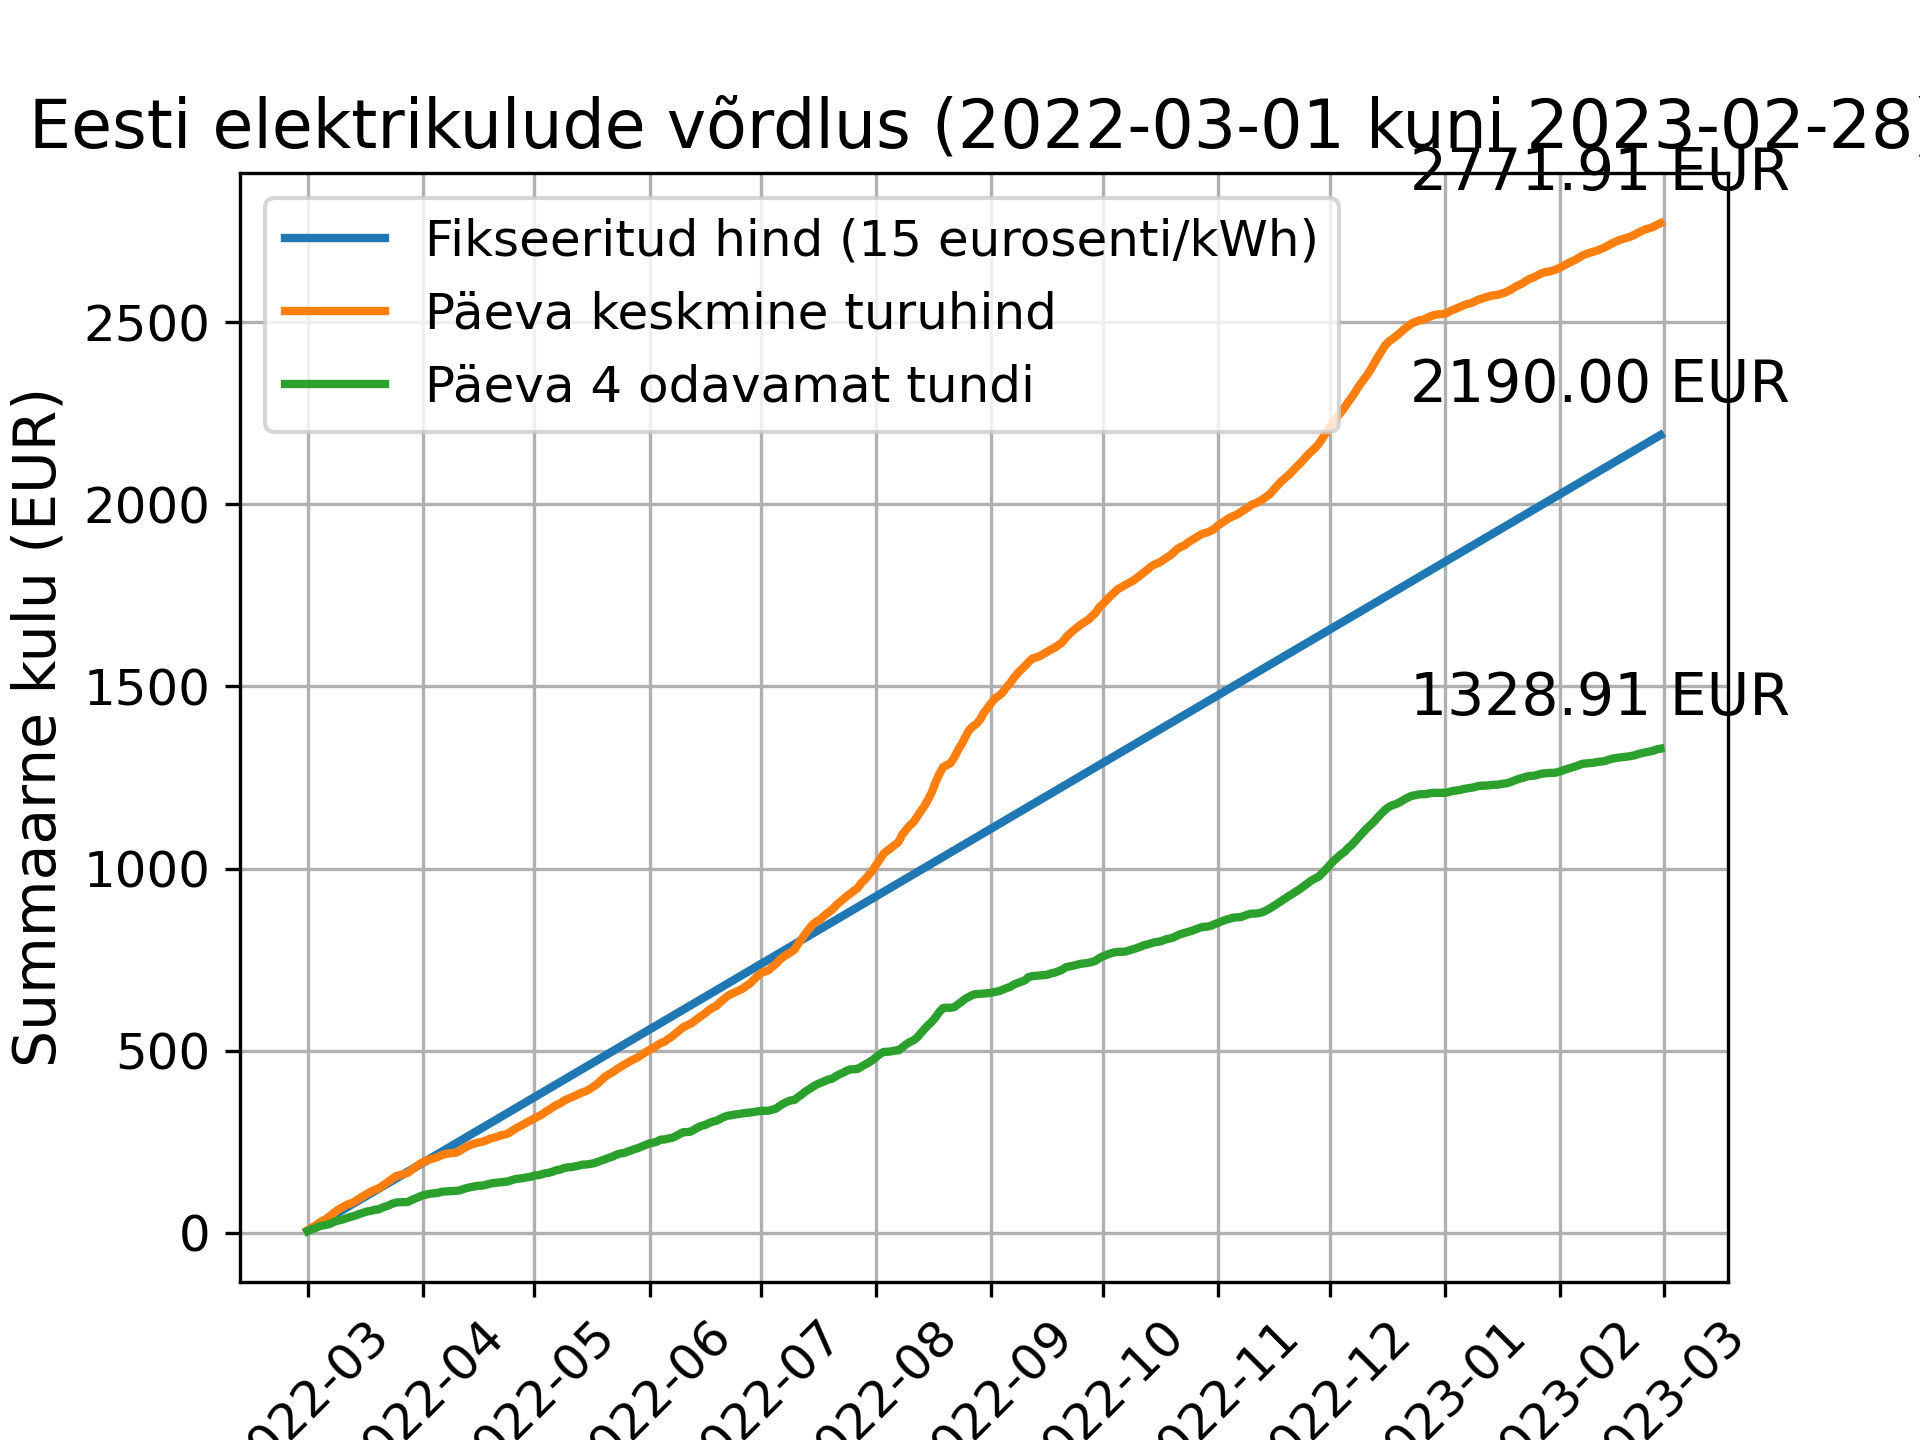
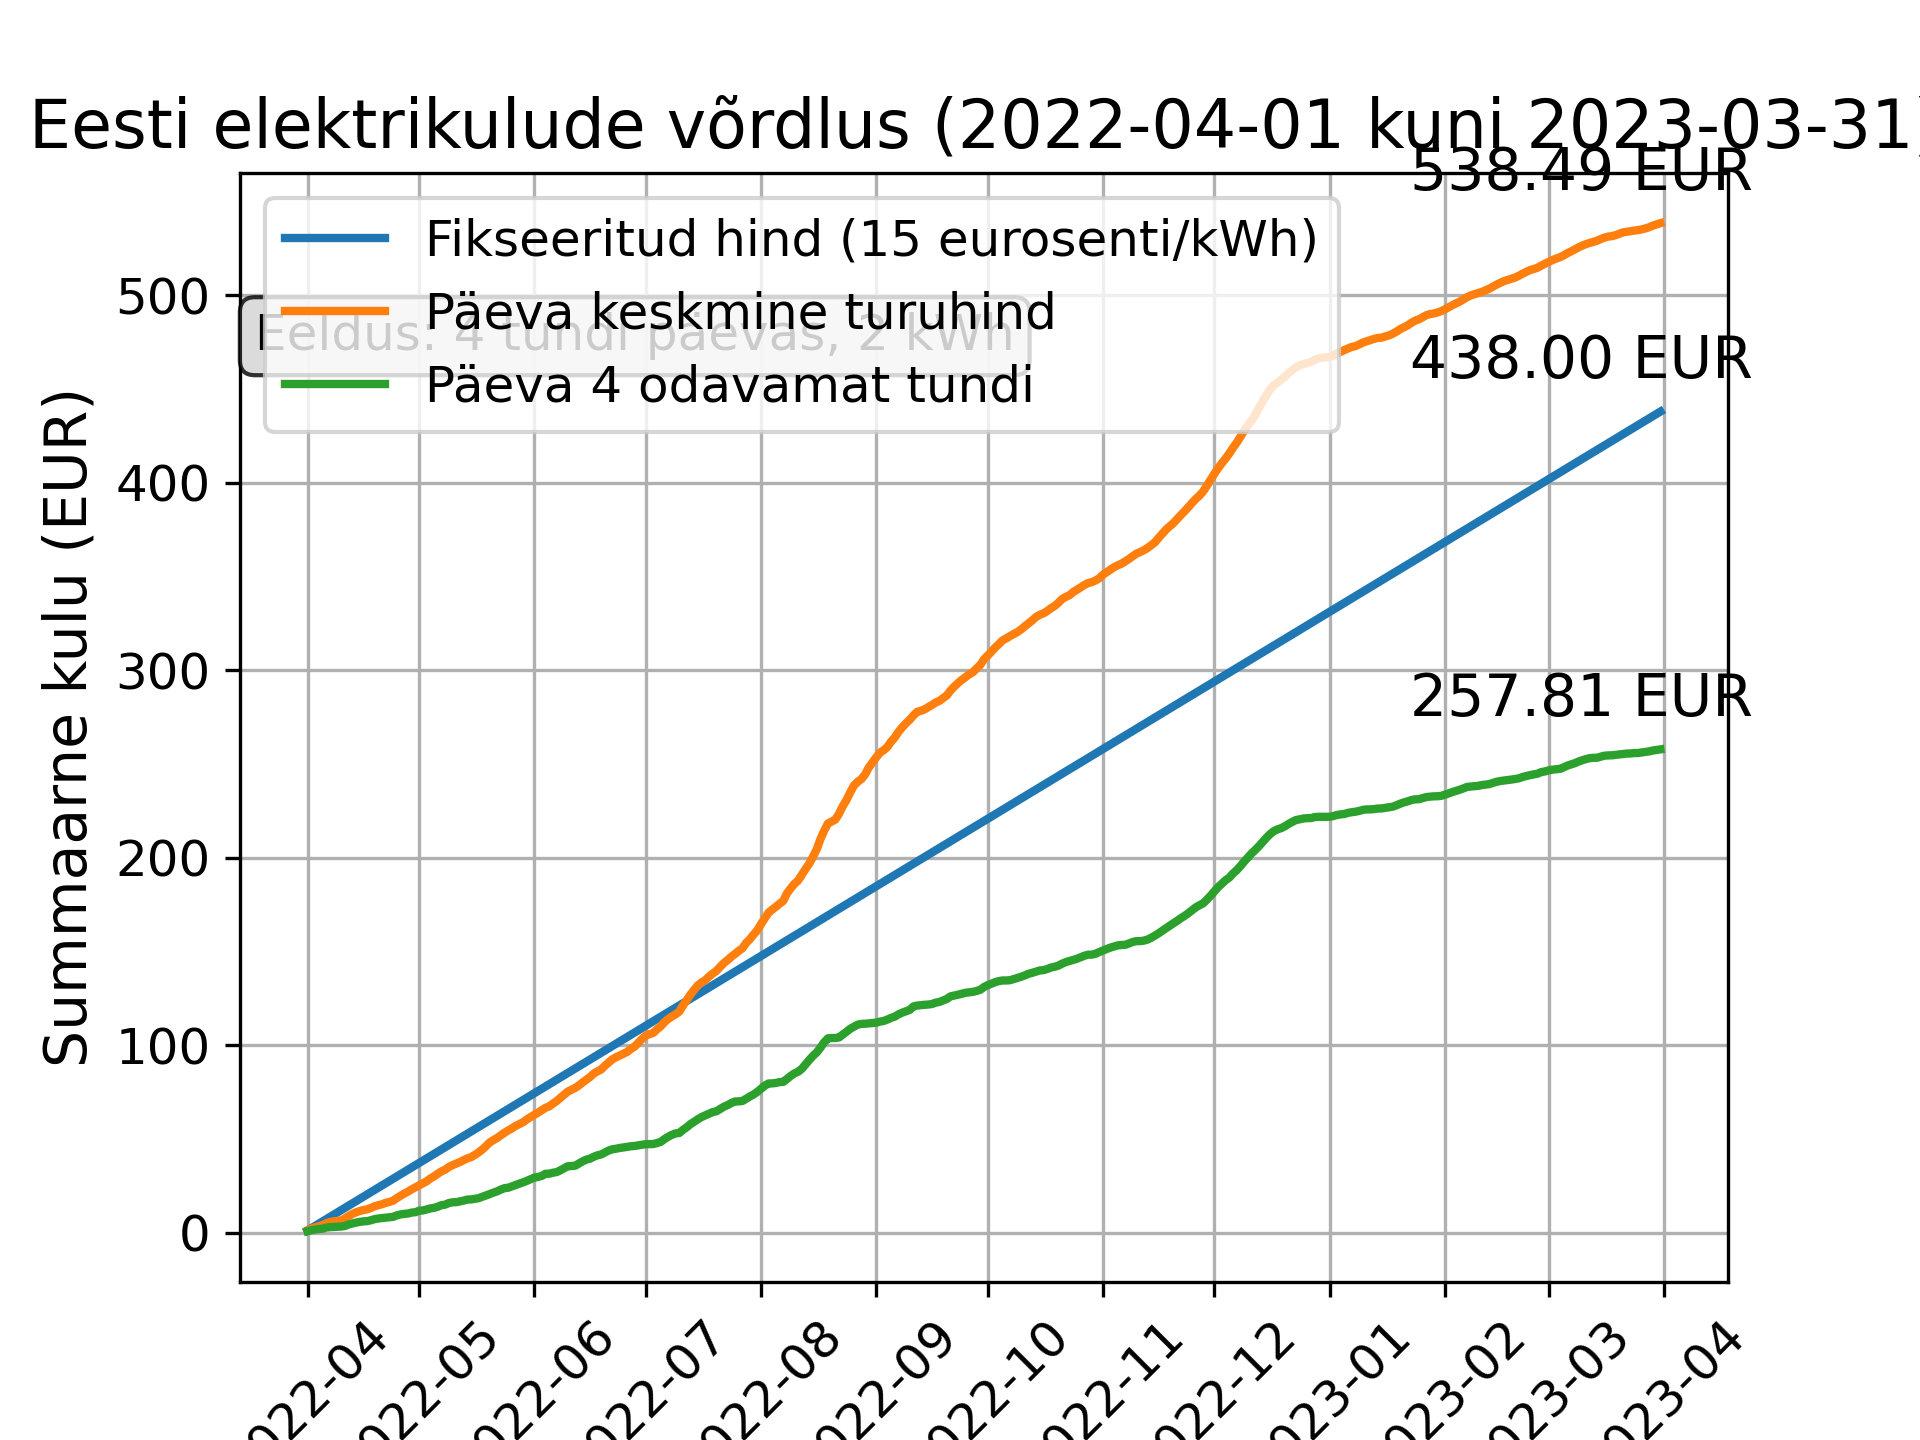
Schedule fix
* Fix the Submit button in the Schedule Control Mode
* Adjust the daily consumption in the analysis to be 8kW per day

diff --git a/webapp/includes/styles.css b/webapp/includes/styles.css
@@ -85,6 +85,18 @@ input[type='submit']:active {
     transform: translateY(2px);
 }
 
+input[type='submit'].btn-success {
+    background-color: #28a745;
+}
+
+input[type='submit'].btn-success:hover {
+    background-color: #218838;
+}
+
+input[type='submit'].btn-success:active {
+    background-color: #1e7e34;
+}
+
 input[type='submit'].btn-danger {
     background-color: #dc3545;
 }

diff --git a/analysis/electricity_costs.py b/analysis/electricity_costs.py
@@ -2,11 +2,12 @@ import pandas as pd
 import requests
 import matplotlib.pyplot as plt
 import matplotlib.dates as mdates
+from matplotlib import transforms
 import numpy as np
 
 # Fetch data from the Elering API
-start = "2022-03-01T00%3A00%3A00.000Z"
-end = "2023-02-28T23%3A59%3A59.999Z"
+start = "2022-04-01T00%3A00%3A00.000Z"
+end = "2023-03-31T23%3A59%3A59.999Z"
 url = f"https://dashboard.elering.ee/api/nps/price?start={start}&end={end}"
 response = requests.get(url)
 
@@ -32,7 +33,7 @@ cheapest_hours_daily_avg = cheapest_hours_df.groupby("date")["price"].mean()
 
 # Calculate daily costs in EUR for consuming electricity for 4 hours every day, at 10 kW per hour (SCENARIO)
 daily_consumption = 4  # in hours
-daily_power_consumption_kw = 10  # in kilowatts (kW)
+daily_power_consumption_kw = 2  # in kilowatts (kW)
 daily_energy_consumption_kwh = daily_power_consumption_kw * daily_consumption  # in kilowatt-hours (kWh)
 
 # Calculate daily costs
@@ -56,7 +57,7 @@ plt.plot(dates, cheapest_hours_cumulative_cost, label="Päeva 4 odavamat tundi",
 # Add labels, title and legend
 plt.ylabel("Summaarne kulu (EUR)", fontsize=14)
 plt.xlabel("Kuupäev", fontsize=14)
-plt.title("Eesti elektrikulude võrdlus (2022-03-01 kuni 2023-02-28)", fontsize=16)
+plt.title("Eesti elektrikulude võrdlus (2022-04-01 kuni 2023-03-31)", fontsize=16)
 plt.legend(fontsize=12)
 
 # Configure x-axis ticks
@@ -65,6 +66,12 @@ ax.xaxis.set_major_locator(mdates.MonthLocator(interval=1))
 ax.xaxis.set_major_formatter(mdates.DateFormatter('%Y-%m'))
 plt.xticks(rotation=45, fontsize=12)
 plt.yticks(fontsize=12)
+
+# Add a textbox with the assumption
+textbox_props = dict(boxstyle='round, pad=0.3', edgecolor='black', facecolor='lightgrey', linewidth=1, alpha=0.8)
+ax = plt.gca()
+transform = ax.transAxes
+ax.text(0.01, 0.84, f"Eeldus: 4 tundi päevas, 2 kWh", fontsize=12, bbox=textbox_props, transform=transform)
 
 # Add gridlines
 plt.grid()

diff --git a/webapp/panel.php b/webapp/panel.php
@@ -350,7 +350,7 @@ if (mysqli_connect_errno()) {
                 </div>
                 <input type='hidden' name='unitID' value='$unit_id' />
                 <div class='col-12'>
-                    <input type='button' name='submit_schedule' value='Salvesta' class='btn btn-success' />
+                    <input type='submit' name='submit_schedule' value='Salvesta' class='btn btn-success' />
                 </div>
             </form>";
 
